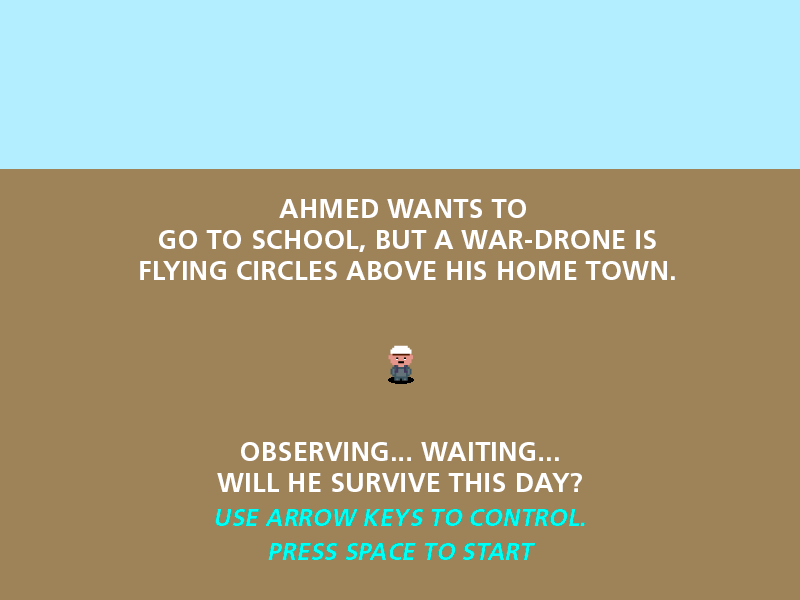
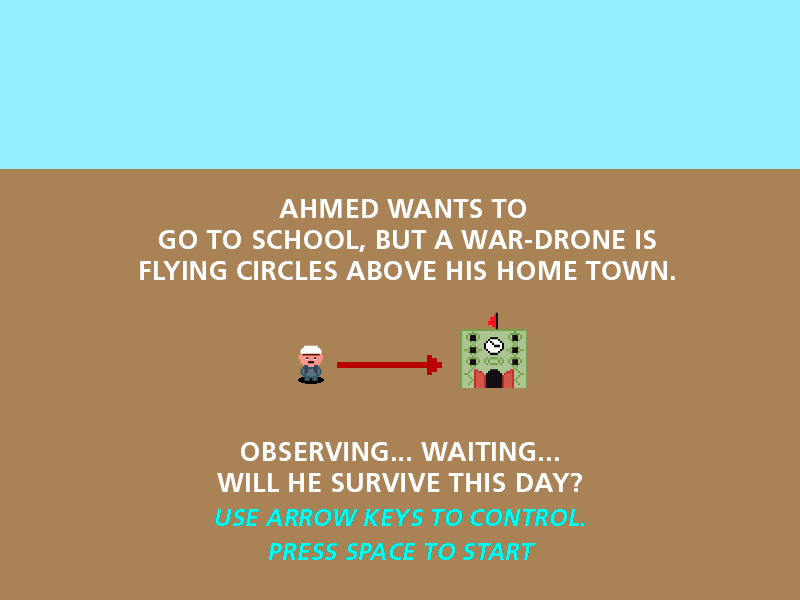
added win situation

Changed region(s): [[0.0, 0.0, 1.0, 0.3], [0.375, 0.51, 0.6875, 0.66]]

diff --git a/src/js/game/states/game.js b/src/js/game/states/game.js
@@ -14,7 +14,8 @@ module.exports = function(game) {
   gameState.create = function () {
       game.stage.backgroundColor = '#FFFFFF';
 
-      game.add.sprite(0, 0, 'grid');
+      game.add.sprite(0, 0, 'base');
+
 
       this._game = game;
 
@@ -51,6 +52,15 @@ module.exports = function(game) {
 
       this._drone = new Drone(game, levels.levelA);
       this._game._bomblist = [];
+
+      this._school = game.add.sprite(0, 0, 'school');
+      this._school.x = 40 * 18;
+      this._school.y = 4;
+
+      this._school.animations.add('schoolAnim', [0,1,2], 12, true, true);
+      this._school.animations.play('schoolAnim');
+
+      this.bomb = undefined;
 
       game.physics.startSystem(Phaser.Physics.ARCADE);
   };
@@ -128,15 +138,21 @@ module.exports = function(game) {
     gameState._onBombImpact = function() {
          this.sowMessage = true;
          this.doesFlash = true;
+
+        if(typeof this.bomb !== 'undefined') {
+            this.bomb.alpha = 0;
+        }
+
          this._child._currentState = 6;
          this._explosionAudio.play('explode');
     };
 
     // instantiate a bomb and insert into update List
     gameState.instantiateBomb = function (startX, startY, targetX, targetY, rotation) {
-        var bomb = new Bomb(game, startX, startY, targetX, targetY, rotation);
-        bomb.bombSignal.add(this._onBombImpact, this);
-        this._game._bomblist.push(bomb);
+        this.bomb = new Bomb(game, startX, startY, targetX, targetY, rotation);
+        this.bomb.alpha = 1;
+        this.bomb.bombSignal.add(this._onBombImpact, this);
+        this._game._bomblist.push(this.bomb);
     };
 
   return gameState;

diff --git a/src/js/game/entities/Character.js b/src/js/game/entities/Character.js
@@ -61,6 +61,9 @@ var Character = function Character(game, map) {
     this._mapSize = map.tileSize;
     this.isOnTile = false;
 
+    this._speechBubble = game.add.sprite(40 * 14, 100, 'speechBubble');
+    this._speechBubble.alpha = 0;
+
     this._upKey = this.game.input.keyboard.addKey(Phaser.Keyboard.UP);
     this._downKey = this.game.input.keyboard.addKey(Phaser.Keyboard.DOWN);
     this._leftKey = this.game.input.keyboard.addKey(Phaser.Keyboard.LEFT);
@@ -118,6 +121,9 @@ p._initialize = function () {
     this._droneAudio.addMarker('droneloop', 0, 2.5);
 
     this.game.world.setBounds(0, 0, 1920, 1920);
+
+
+    this._winTimer  = Date.now();
 
     this._findStart();
 };
@@ -276,7 +282,8 @@ p._checkDead = function (y,x) {
     }
 
    if( this._map.tiles[y][x] === 8 ) {
-        this._currentState = this._state.WIN;
+       this._currentState = this._state.WIN;
+       this._winTimer = Date.now()  + 1000;
    }
 };
 
@@ -380,10 +387,18 @@ p.loop = function (delta) {
             break;
         case this._state.WIN:
             this.animations.play('win');
+
+            this._speechBubble.alpha = 1;
+
+            if(Date.now() > this._winTimer) {
+                storage.map = [];
+                this.game.state.start('intro');
+            }
+
             break;
         case this._state.SCARED:
-            //TODO: add scared image
-            // this.game.camera.x +=
+            this.game.camera.x =  this.game.rnd.between(0, 10.0);
+            this.game.camera.y =  this.game.rnd.between(0, 10.0);
             break;
         case this._state.DEADDEAD:
             this.animations.play('dead');

diff --git a/src/js/game/states/preloader.js b/src/js/game/states/preloader.js
@@ -8,6 +8,9 @@ module.exports = function(game) {
     game.load.image('character', 'images/character.png#grunt-cache-bust');
     game.load.image('message', 'images/message.png#grunt-cache-bust');
     game.load.image('intro', 'images/introScreen.png#grunt-cache-bust');
+    game.load.image('base', 'images/Tiffany_map.png#grunt-cache-bust');
+    game.load.image('speechBubble', 'images/speechBubble.png#grunt-cache-bust');
+
 
     game.load.image('bomb', 'images/bomb.png#grunt-cache-bust');
     game.load.image('drone', 'images/drone.png#grunt-cache-bust');
@@ -19,9 +22,11 @@ module.exports = function(game) {
     game.load.image('ahmedDead', 'images/ahmedDead.png#grunt-cache-bust');
 
     game.load.atlas( 'child', 'images/ahmed.png', 'images/ahmed.json');
+    game.load.atlas( 'school', 'images/school.png', 'images/school.json');
 
     game.load.audio('explosion', 'audio/explosion.ogg');
     game.load.audio('steps', 'audio/steps.mp3');
+    game.load.audio('bomb', 'audio/bomb.mp3');
     game.load.audio('drone', 'audio/droneSound.mp3');
   };
 

diff --git a/src/js/game/levels.js b/src/js/game/levels.js
@@ -9,11 +9,11 @@
 var levels = {
 
     levelA: { tiles: [
-        [1, 1, 0, 1, 1, 0, 1, 1, 0, 1, 1, 0, 1, 1, 0, 1, 1, 0, 1, 1]
+        [1, 1, 0, 1, 1, 0, 1, 1, 0, 1, 1, 0, 1, 1, 0, 1, 1, 8, 1, 1]
         ,
         [1, 1, 0, 1, 1, 0, 1, 1, 0, 1, 1, 0, 1, 1, 0, 1, 1, 8, 1, 1]
         ,
-        [0, 0, 0, 0, 0, 0, 0, 0, 0, 0, 0, 0, 0, 0, 0, 0, 0, 0, 0, 0]
+        [0, 0, 0, 0, 0, 0, 0, 0, 0, 0, 0, 0, 0, 0, 0, 0, 0, 8, 8, 8]
         ,
         [1, 1, 0, 1, 1, 0, 1, 1, 0, 1, 1, 0, 1, 1, 6, 1, 1, 0, 1, 1]
         ,

diff --git a/src/js/game/entities/Bomb.js b/src/js/game/entities/Bomb.js
@@ -84,6 +84,9 @@ var Bomb = function Bomb(game, startX, startY, targetX, targetY, rotation) {
 
     this.bombSignal = new Phaser.Signal();
 
+    this._bombAudio = this.game.add.audio('bomb');
+    this._bombAudio.addMarker('flyingBomb', 0, 1.0);
+
     this._initialize();
 
 };
@@ -105,7 +108,8 @@ p._initialize = function () {
  * @private
  */
 p._setAtStartPosition = function () {
-   
+    this._bombAudio.play('flyingBomb');
+
    this.x = this._start.x;
    this.y = this._start.y;
 

diff --git a/src/js/game/properties.js b/src/js/game/properties.js
@@ -1,12 +1,12 @@
 var npmProperties = require('../../../package.json');
 
 module.exports =
-  { title: 'Phaser JS Boilerplate'
+  { title: 'An anti war game'
   , description: npmProperties.description
   , port: 3017
   , liveReloadPort: 3018
   , mute: false
-  , showStats: true
+  , showStats: false
   , size:
     { x: 800
     , y: 600
